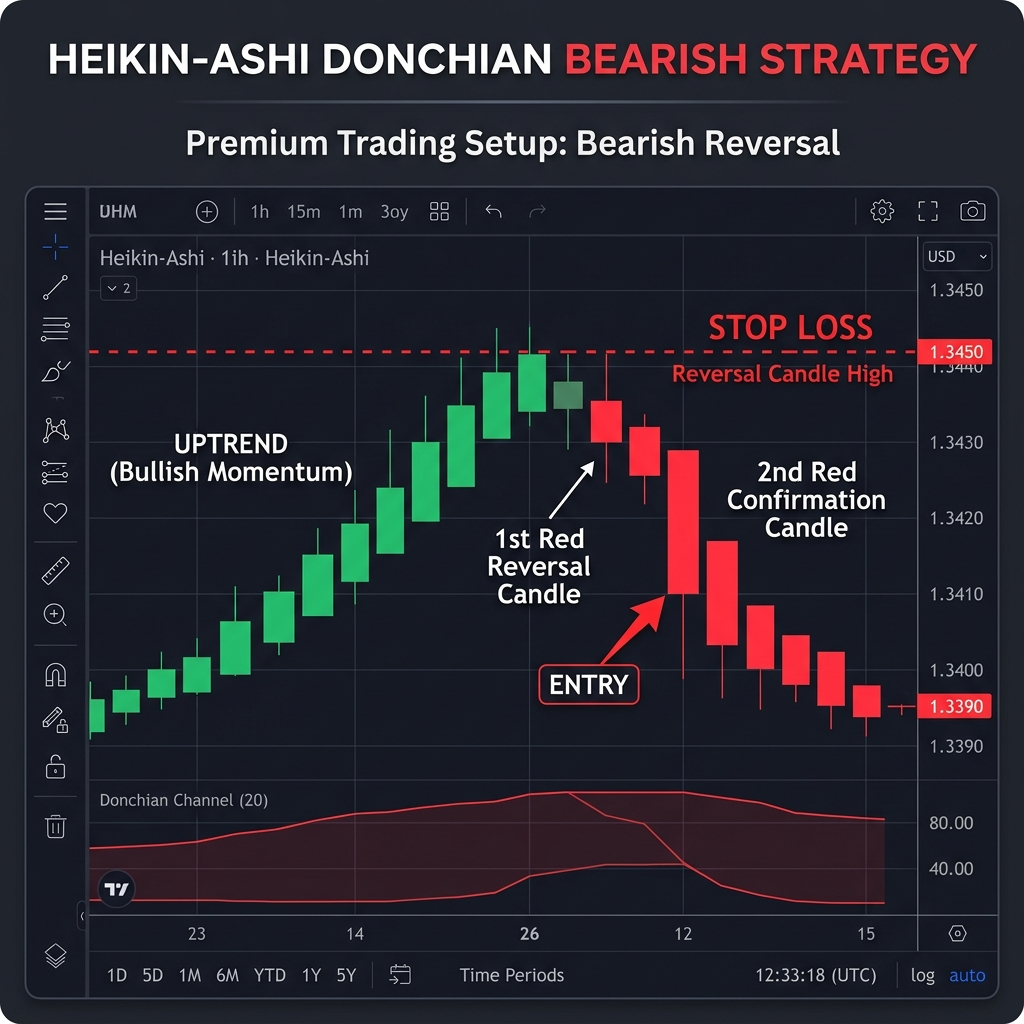
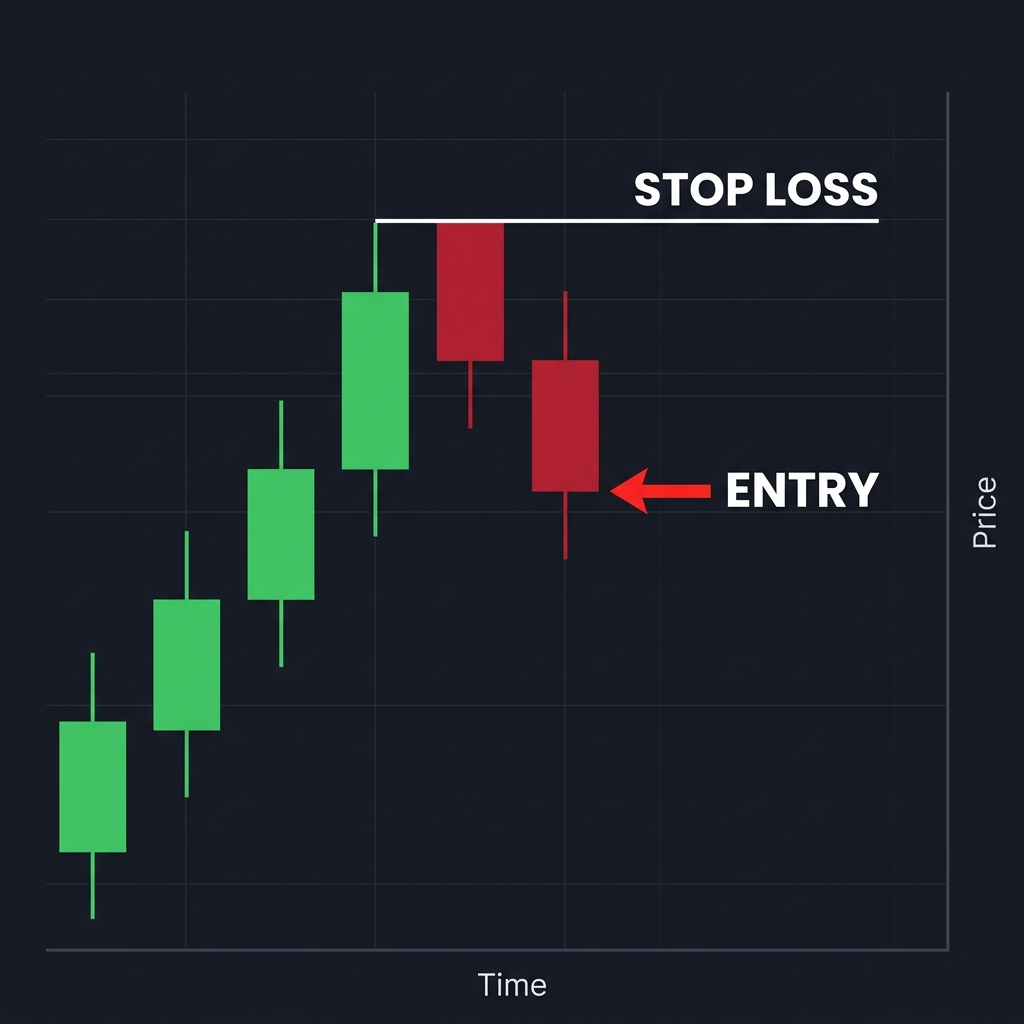
docs: simplify HA Donchian diagrams and point entry arrow to the 2nd candle

diff --git a/js/ui/app.js b/js/ui/app.js
@@ -181,12 +181,12 @@ const STRATEGY_INFO = {
   ha_donchian_bullish: {
     name: 'HA Donchian Bullish',
     desc: 'A mechanical trend-following strategy by Brijesh Bhatia. It uses smoothed Heikin-Ashi candles to filter market noise and identifies early bullish reversals when the Heikin-Ashi candle color flips green with a flat bottom (no lower shadow) after at least 3 red exhaustion candles. Trades are trailed dynamically using the Donchian Channel.',
-    example: '<img src="/assets/ha_donchian_bullish_diagram.png?v=4" style="width:100%; border-radius:6px; margin-bottom:12px; border:1px solid rgba(255,255,255,0.1);"><strong>Entry:</strong> Buy at the open of the next candle (once the confirmation green HA candle closes).<br><strong>Stop Loss:</strong> Trailing stop at the lower Donchian Channel band (lowest low of last 3 candles for swing, 5 candles for weekly positional, or 2 candles for scalping), OR initially at the low of the 1st green HA reversal candle for a tighter risk option.<br><strong>Target:</strong> Ride the trend until the trailing stop is hit (no fixed target).<br><br><span style="color:var(--text-muted)"><strong>Context:</strong> E.g., RELIANCE drops for 4 days (3+ red HA candles). Today, it prints a green HA candle with no lower shadow (flat bottom). You buy at the open of the next candle and trail the lowest low of the last 3 days.</span>'
+    example: '<img src="/assets/ha_donchian_bullish_diagram.png?v=5" style="width:100%; border-radius:6px; margin-bottom:12px; border:1px solid rgba(255,255,255,0.1);"><strong>Entry:</strong> Buy at the open of the next candle (once the confirmation green HA candle closes).<br><strong>Stop Loss:</strong> Trailing stop at the lower Donchian Channel band (lowest low of last 3 candles for swing, 5 candles for weekly positional, or 2 candles for scalping), OR initially at the low of the 1st green HA reversal candle for a tighter risk option.<br><strong>Target:</strong> Ride the trend until the trailing stop is hit (no fixed target).<br><br><span style="color:var(--text-muted)"><strong>Context:</strong> E.g., RELIANCE drops for 4 days (3+ red HA candles). Today, it prints a green HA candle with no lower shadow (flat bottom). You buy at the open of the next candle and trail the lowest low of the last 3 days.</span>'
   },
   ha_donchian_bearish: {
     name: 'HA Donchian Bearish',
     desc: 'A mechanical trend-following strategy by Brijesh Bhatia. Identifies early bearish reversals when the Heikin-Ashi candle flips red with a flat top (no upper shadow) after at least 3 green exhaustion candles. Trades are trailed dynamically using the Donchian Channel.',
-    example: '<img src="/assets/ha_donchian_bearish_diagram.png?v=4" style="width:100%; border-radius:6px; margin-bottom:12px; border:1px solid rgba(255,255,255,0.1);"><strong>Entry:</strong> Short/Sell at the open of the next candle (once the confirmation red HA candle closes).<br><strong>Stop Loss:</strong> Trailing stop at the upper Donchian Channel band (highest high of last 3 candles for swing, 5 candles for weekly positional, or 2 candles for scalping), OR initially at the high of the 1st red HA reversal candle for a tighter risk option.<br><strong>Target:</strong> Ride the trend until the trailing stop is hit.<br><br><span style="color:var(--text-muted)"><strong>Context:</strong> E.g., SBIN rallies for 5 days (3+ green HA candles). Today, it prints a red HA candle with no upper shadow (flat top). You short at the open of the next candle and trail the highest high of the last 3 days.</span>'
+    example: '<img src="/assets/ha_donchian_bearish_diagram.png?v=5" style="width:100%; border-radius:6px; margin-bottom:12px; border:1px solid rgba(255,255,255,0.1);"><strong>Entry:</strong> Short/Sell at the open of the next candle (once the confirmation red HA candle closes).<br><strong>Stop Loss:</strong> Trailing stop at the upper Donchian Channel band (highest high of last 3 candles for swing, 5 candles for weekly positional, or 2 candles for scalping), OR initially at the high of the 1st red HA reversal candle for a tighter risk option.<br><strong>Target:</strong> Ride the trend until the trailing stop is hit.<br><br><span style="color:var(--text-muted)"><strong>Context:</strong> E.g., SBIN rallies for 5 days (3+ green HA candles). Today, it prints a red HA candle with no upper shadow (flat top). You short at the open of the next candle and trail the highest high of the last 3 days.</span>'
   }
 };
 
